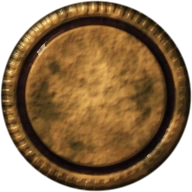
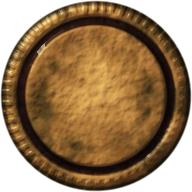
Round 57 JASPER: tarnish kept off the coin face under the numeral; memorial glow no longer clipped

diff --git a/tools/prep_r57_jasper_objects.py b/tools/prep_r57_jasper_objects.py
@@ -49,7 +49,8 @@ def coin(name, seed, S=192):
     A = bronze[None, None] * (1 + .13 * f[..., None])
     # rubbed bright on the high places; black-green tarnish in the low ones
     low = smooth(1.2, -2.0, ndi.gaussian_filter(R, 2) - ndi.gaussian_filter(R, 10))
-    tarn = smooth(-.35, 1.1, fbm(S, S, 16, seed + 4)) * .62 + low * .5
+    # tarnish keeps off the middle of the face, where a numeral is struck over it
+    tarn = (smooth(-.35, 1.1, fbm(S, S, 16, seed + 4)) * .62 + low * .5) * (.28 + .72 * smooth(.3, .66, r))
     A = mix(A, np.array([.17, .19, .12])[None, None], np.clip(tarn, 0, .82))
     ch = smooth(.72, .75, r) * smooth(.84, .81, r)
     A = mix(A, np.array([.05, .03, .06])[None, None], ch * .9)
